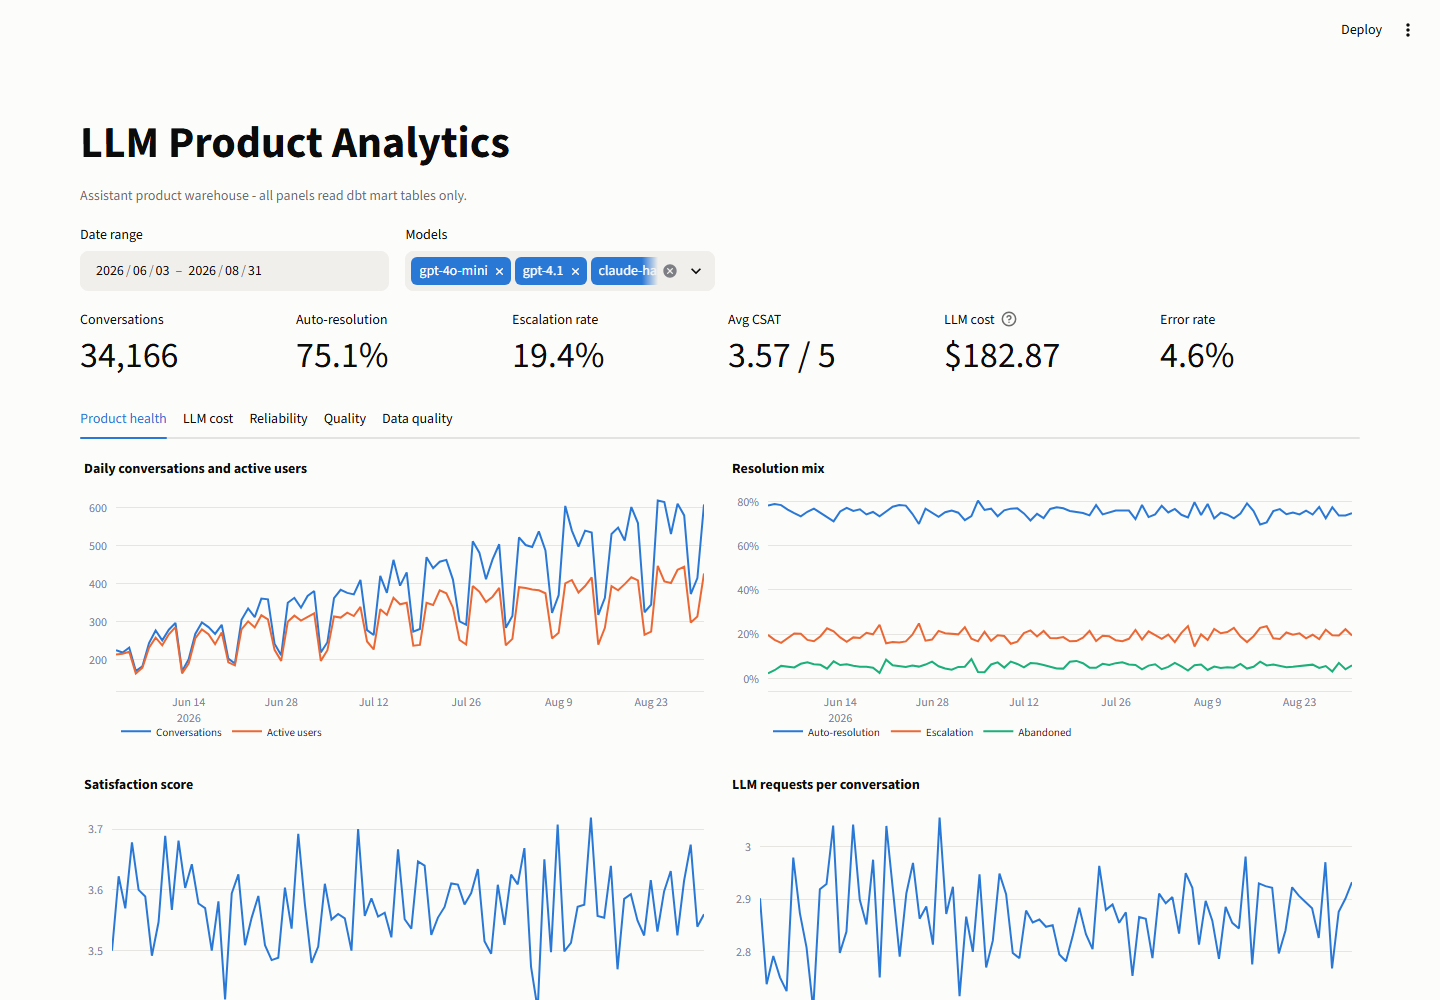
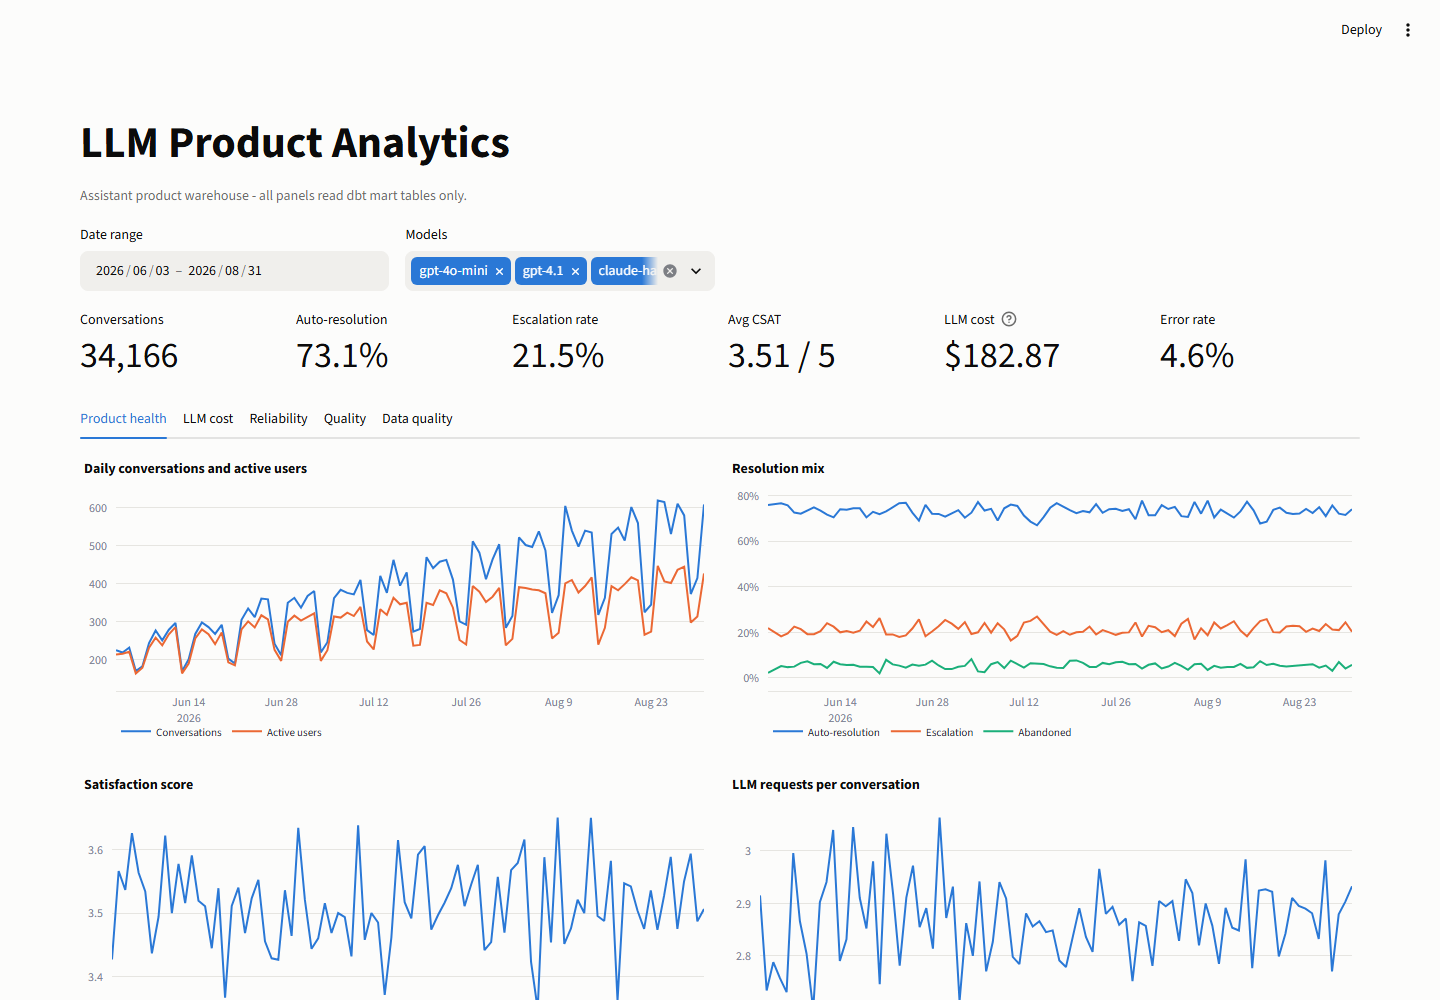
Generator: LLM failures feed back into escalations and satisfaction
Failed calls now raise the hand-off probability (P_ESCALATE_PER_FAILURE)
and attribute the escalation to llm_failure; users who hit a failure rate
lower. The 14 July provider incident now shows up downstream as a 2.6x
spike in llm_failure escalations, not only as an error-rate spike.
Refresh doc counts and dashboard screenshots.

diff --git a/scripts/generate_synthetic_data.py b/scripts/generate_synthetic_data.py
@@ -63,6 +63,10 @@ MODELS = [
 # out of date relative to the finance price list (ratio old/new).
 LEGACY_PRICE_MULTIPLIER = {"gpt-4.1": 1.25, "claude-sonnet-4-5": 1.20, "gemini-2.5-flash": 1.50}
 
+# Probability that one failed LLM call (as seen by the user) tips the
+# conversation into a human hand-off
+P_ESCALATE_PER_FAILURE = 0.20
+
 # Which intents are "hard" and get routed to strong models more often
 HARD_INTENTS = {"transaction_dispute", "account_verification", "loan_inquiry", "payment_failed"}
 
@@ -320,6 +324,38 @@ def gen_intent_predictions(rng, conv: pd.DataFrame) -> pd.DataFrame:
     })
 
 
+def apply_failure_effects(rng, conv: pd.DataFrame, req: pd.DataFrame) -> pd.DataFrame:
+    """Let LLM failures feed back into the conversation outcome.
+
+    A failed call (error / timeout / rate-limit) the user actually saw makes the
+    conversation more likely to end in a hand-off, and that hand-off is
+    attributed to `llm_failure`. This is what makes a provider incident show up
+    downstream as an escalation spike, not only as an error-rate spike.
+    """
+    failed = (req[req["status"] != "success"]
+              .groupby("conversation_id").size().rename("n_failed"))
+    n_failed = conv["conversation_id"].map(failed).fillna(0).to_numpy()
+
+    # Each failed call adds ~P_ESCALATE_PER_FAILURE of escalation probability
+    p_extra = 1 - (1 - P_ESCALATE_PER_FAILURE) ** n_failed
+    newly_escalated = (~conv["escalated"].to_numpy()) & (rng.random(len(conv)) < p_extra)
+    # Already-escalated conversations that also saw failures: most of those
+    # hand-offs are really about the failure
+    reattributed = conv["escalated"].to_numpy() & (n_failed > 0) & (rng.random(len(conv)) < 0.4)
+
+    conv = conv.copy()
+    conv.loc[newly_escalated, "escalated"] = True
+    conv.loc[newly_escalated, "resolved_without_escalation"] = False
+    conv["_escalation_reason_override"] = np.where(newly_escalated | reattributed, "llm_failure", None)
+
+    # Users who hit a failure rate the conversation lower (when they rate at all)
+    hit = n_failed > 0
+    conv.loc[hit, "satisfaction_score"] = np.clip(
+        conv.loc[hit, "satisfaction_score"] - rng.integers(0, 2, size=int(hit.sum())), 1, 5
+    )
+    return conv
+
+
 def gen_escalations(rng, conv: pd.DataFrame) -> pd.DataFrame:
     esc = conv[conv["escalated"]].reset_index(drop=True)
     n = len(esc)
@@ -327,6 +363,8 @@ def gen_escalations(rng, conv: pd.DataFrame) -> pd.DataFrame:
         pick(rng, ESCALATION_REASONS_BY_INTENT.get(i, ESCALATION_REASONS), 1)[0]
         for i in esc["initial_intent"]
     ])
+    override = esc["_escalation_reason_override"].to_numpy()
+    reasons = np.where(pd.notna(override), override, reasons)
     team_by_intent = {
         "transaction_dispute": "disputes", "account_verification": "kyc_compliance",
     }
@@ -438,8 +476,10 @@ def main():
     conv = gen_conversations(rng, users, args.conversations, start, end)
     prices = gen_prices(start, end)
     req = gen_requests(rng, conv, prices, args.requests)
+    conv = apply_failure_effects(rng, conv, req)
     preds = gen_intent_predictions(rng, conv)
     esc = gen_escalations(rng, conv)
+    conv = conv.drop(columns=["_escalation_reason_override"])
     conv, req, manifest = corrupt(rng, conv, req, prices)
 
     # Shuffle request order so raw data isn't suspiciously sorted

diff --git a/README.md b/README.md
@@ -63,7 +63,7 @@ Raw sources (≈ 90 days, seed 42):
 | `raw_conversations` | 34,166 | channel, initial intent, resolution flags, 1–5 satisfaction (35 % unrated) |
 | `raw_llm_requests` | 98,537 | 5 models across OpenAI / Anthropic / Google, tokens, latency, logged cost, status + error type |
 | `raw_intent_predictions` | 34,166 | predicted intent, confidence, human label on a 30 % reviewed subset |
-| `raw_escalations` | 6,617 | reason, handling team, time to hand-off |
+| `raw_escalations` | 7,353 | reason, handling team, time to hand-off |
 | `raw_daily_model_prices` | 455 | daily price per model, one mid-window price cut |
 
 Injected defects (each tagged in `audit.messy_manifest` so the pipeline can be
@@ -159,8 +159,13 @@ cost, Reliability, Quality, Data quality.
 | ![Quality](docs/img/dashboard_quality.png) | ![Data quality](docs/img/dashboard_data_quality.png) |
 
 Things visible in the data: the 14 July OpenAI incident (error rate 4.6 % →
-17 %, p95 latency 6 s → 35 s; OpenAI at 29 % while the other two providers stay flat), the mid-window `gpt-4.1` price cut, and the
-three models whose logged cost drifts 20–50 % above the price list.
+17 % with OpenAI at 29 % while the other two providers stay flat; p95 latency
+6 s → 35 s; escalations attributed to `llm_failure` 2.6× the baseline that day —
+the generator lets failed calls feed back into hand-offs and satisfaction, so
+the incident has a product cost, not just an SRE one), the mid-window `gpt-4.1`
+price cut, and the three models whose logged cost drifts 20–50 % above the
+price list. [analyses/incident_2026_07_14_provider_outage.sql](analyses/incident_2026_07_14_provider_outage.sql)
+is the write-up query.
 
 ## What this demonstrates
 

diff --git a/docs/data_quality_notes.md b/docs/data_quality_notes.md
@@ -99,7 +99,7 @@ Current build: **168 pass / 6 warn / 0 error** (4 raw-level warnings + 2 visibil
   does not trip the check on every run.
 
 ### 8. Logged cost computed from a lagging price sheet
-- **Raw:** 367 requests (≈1% of three models) whose `cost_usd` was computed
+- **Raw:** 389 requests (≈1% of three models) whose `cost_usd` was computed
   by the orchestration service with an out-of-date embedded price sheet
   (+20–50% vs the finance price list).
 - **Handling:** `int_model_costs` recomputes `calculated_cost_usd` from tokens
@@ -107,7 +107,7 @@ Current build: **168 pass / 6 warn / 0 error** (4 raw-level warnings + 2 visibil
   `is_cost_reconciled` using a tolerance of max(0.5 % relative, $0.00001
   absolute). **All marts use the recomputed cost.**
 - **Proof / visibility:**
-  - `warn_unreconciled_request_costs` lists the 367 rows (warn).
+  - `warn_unreconciled_request_costs` lists the 389 rows (warn).
   - `assert_cost_mismatch_rate_within_slo` fails if any day exceeds 2 %
     mismatches (passes; the observed daily rate is ≈0.4 %).
   - `assert_daily_cost_reconciles_between_marts` ensures the KPI mart and the
